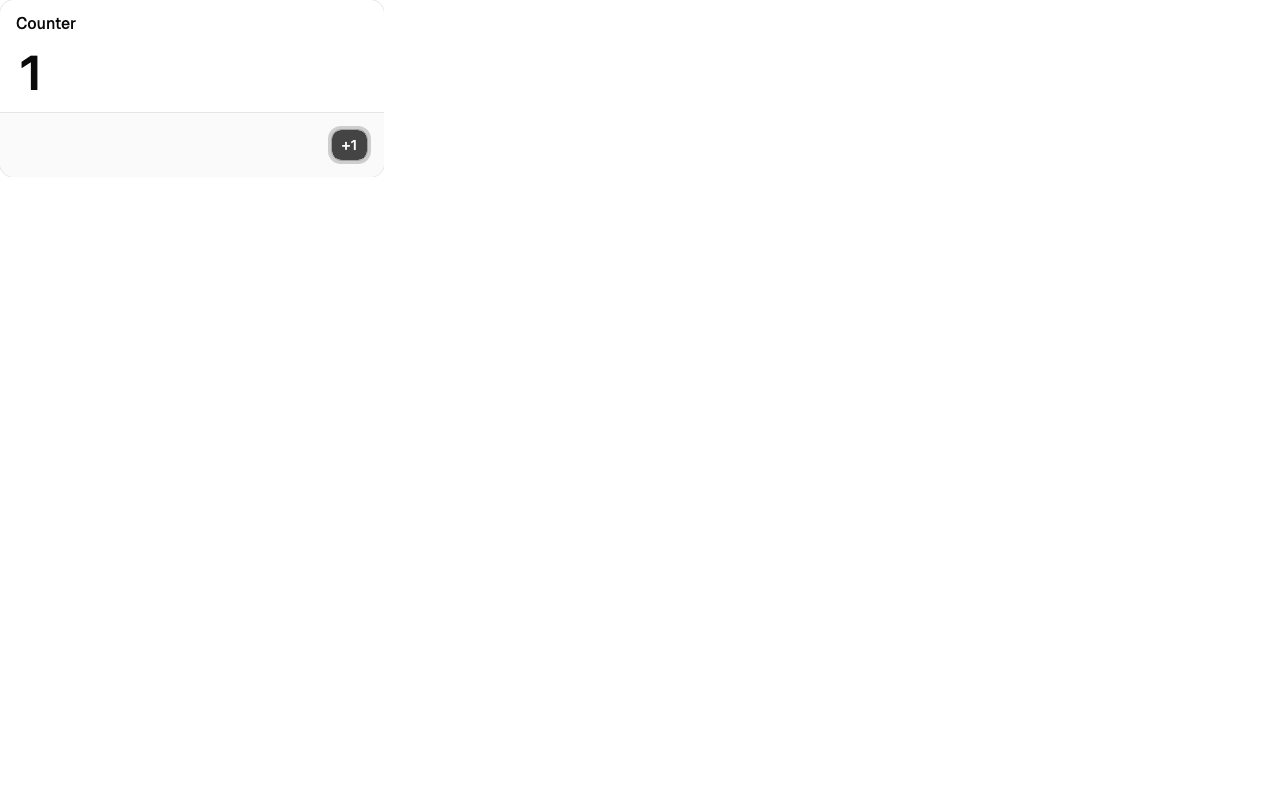
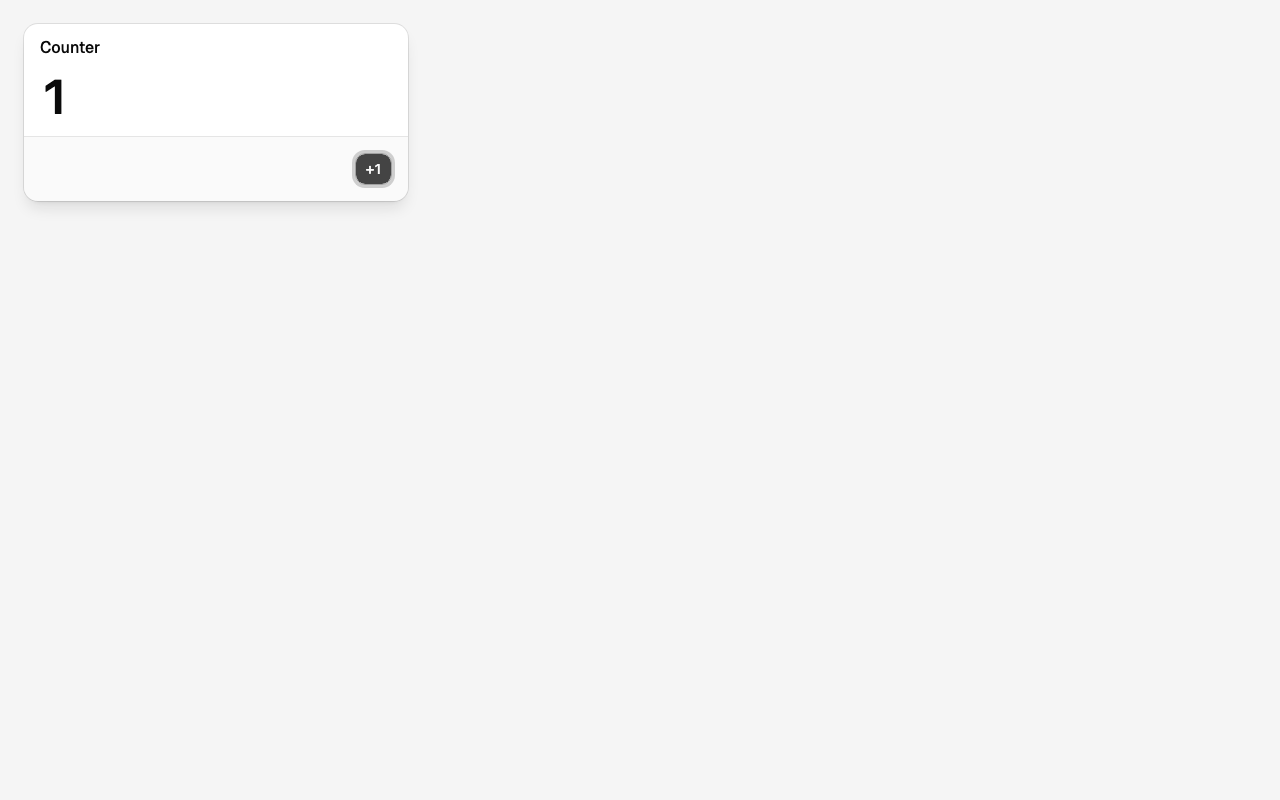
polish: modal padding, shadow, muted surface; friendlier fallback
- Mount gets p-6 so the popup's ring/shadow aren't cut at the canvas edge
  (the snapshot includes ink outside the border box, but (0,0) put the ring
  at -1). Popup gets shadow-lg; the canvas a bg-muted surface.
- UnsupportedBrowser is now a short card: title, one imperative line naming
  Chrome Canary 148+ and the flag (click-to-select), a plain link to the
  explainer. No stepper.
- Feature note: ring/shadow finding and the fallback screenshot.

Changed region(s): [[0.0312, 0.1562, 0.3125, 0.2812], [0.0, 0.0625, 0.0625, 0.1562], [0.0312, 0.0, 0.0625, 0.0625]]

diff --git a/apps/shell/src/UnsupportedBrowser.tsx b/apps/shell/src/UnsupportedBrowser.tsx
@@ -1,24 +1,25 @@
 export function UnsupportedBrowser() {
   return (
-    <main className="unsupported">
-      <h1>This demo needs HTML-in-Canvas</h1>
-      <p>
-        os-canvas-engine renders every window through Chrome's experimental{" "}
-        <a href="https://github.com/WICG/html-in-canvas" target="_blank" rel="noreferrer">
-          HTML-in-Canvas API
+    <main className="grid min-h-screen place-items-center bg-muted p-6">
+      <div className="grid w-sm gap-4 rounded-xl bg-popover p-6 text-sm text-popover-foreground shadow-lg ring-1 ring-foreground/10">
+        <div className="grid gap-1">
+          <h1 className="font-heading text-base font-medium">Sorry, this won't work here :(</h1>
+          <p className="text-muted-foreground">
+            Use Chrome Canary 148+ and enable{" "}
+            <code className="select-all whitespace-nowrap">
+              chrome://flags/#canvas-draw-element
+            </code>
+          </p>
+        </div>
+        <a
+          href="https://github.com/WICG/html-in-canvas"
+          target="_blank"
+          rel="noreferrer"
+          className="justify-self-start underline underline-offset-3 hover:text-foreground"
+        >
+          What is HTML-in-Canvas?
         </a>
-        . It isn't in stable Chrome yet — there's no fallback renderer here on purpose, this is a
-        tech demo built specifically to explore the new API.
-      </p>
-      <ol>
-        <li>
-          Open this page in <strong>Chrome Canary 148+</strong>.
-        </li>
-        <li>
-          Visit <code>chrome://flags/#canvas-draw-element</code> and enable the flag.
-        </li>
-        <li>Relaunch Chrome and reload this page.</li>
-      </ol>
+      </div>
     </main>
   );
 }

diff --git a/apps/shell/src/CounterModal.tsx b/apps/shell/src/CounterModal.tsx
@@ -18,7 +18,7 @@ export function CounterModal() {
       <DialogPrimitive.Portal container={mountRef}>
         <DialogPrimitive.Popup
           data-slot="dialog-content"
-          className="grid w-sm gap-4 rounded-xl bg-popover p-4 text-sm text-popover-foreground ring-1 ring-foreground/10 outline-none"
+          className="grid w-sm gap-4 rounded-xl bg-popover p-4 text-sm text-popover-foreground shadow-lg ring-1 ring-foreground/10 outline-none"
         >
           <DialogHeader>
             <DialogTitle>Counter</DialogTitle>

diff --git a/apps/shell/src/CanvasSurface.tsx b/apps/shell/src/CanvasSurface.tsx
@@ -80,12 +80,12 @@ export function CanvasSurface({ children }: { children: ReactNode }) {
     <SurfaceContext.Provider value={context}>
       <canvas
         ref={canvasRef}
-        className="surface"
+        className="surface bg-muted"
         layoutsubtree=""
         content="drawable"
         aria-label="Desktop"
       >
-        <div ref={mountRef} drawable="" className="w-max">
+        <div ref={mountRef} drawable="" className="w-max p-6">
           {children}
         </div>
       </canvas>

diff --git a/apps/shell/src/index.css b/apps/shell/src/index.css
@@ -47,13 +47,6 @@ body {
   min-height: 100vh;
 }
 
-.unsupported {
-  max-width: 32rem;
-  margin: 0 auto;
-  padding: 2rem;
-  line-height: 1.5;
-}
-
 /* The canvas is the whole desktop surface. */
 .surface {
   display: block;
@@ -61,7 +54,7 @@ body {
   height: 100vh;
 }
 
-.unsupported code {
+code {
   background: color-mix(in srgb, currentColor 12%, transparent);
   padding: 0.15em 0.4em;
   border-radius: 0.3em;

diff --git a/docs/features/01-counter-modal.md b/docs/features/01-counter-modal.md
@@ -21,7 +21,8 @@ with no Portal at all; Base UI 1.8 throws `<Dialog.Portal> is missing`, so it's 
 `container`.)
 
 - **DOM shape.** `<canvas layoutsubtree content="drawable">` fills the viewport. Its only child is
-  a `<div drawable>` holding the modal. React renders both, as ordinary JSX children of the
+  a `<div drawable>` holding the modal, with padding so the modal's ring and shadow have room
+  (see below for why). React renders both, as ordinary JSX children of the
   canvas. Canvas children are laid out but never painted by the page, so the only way the modal
   shows up is through the canvas.
 - **The modal.** shadcn Dialog (Base UI) with `open`, `modal={false}`, a Portal whose
@@ -59,3 +60,9 @@ Chrome for Testing 153 (`--enable-blink-features=CanvasDrawElement`), 1280×800,
   `requires the canvas to have the layoutsubtree attribute`. `layoutsubtree=""` / `drawable=""` fix it.
 - **Base UI 1.8 requires the Portal.** `Dialog.Popup` without one throws `<Dialog.Portal> is missing`.
   `<Dialog.Portal container={mountRef}>` keeps the popup inside the canvas.
+- **The snapshot includes ink outside the element's box.** With the popup at (0, 0) its 1px ring
+  looked cut off on the top and left: that pixel sits at -1 and falls off the canvas. Padding on
+  the mount (`p-6`) fixes it, and a `shadow-lg` added to check renders fully too — the snapshot is
+  not clipped to the border box, only to the mount. Good news for window chrome at rung 4.
+- **Fallback.** Along the way the unsupported-browser screen became a small card in the same
+  style: ![unsupported](./assets/01-unsupported.png)
